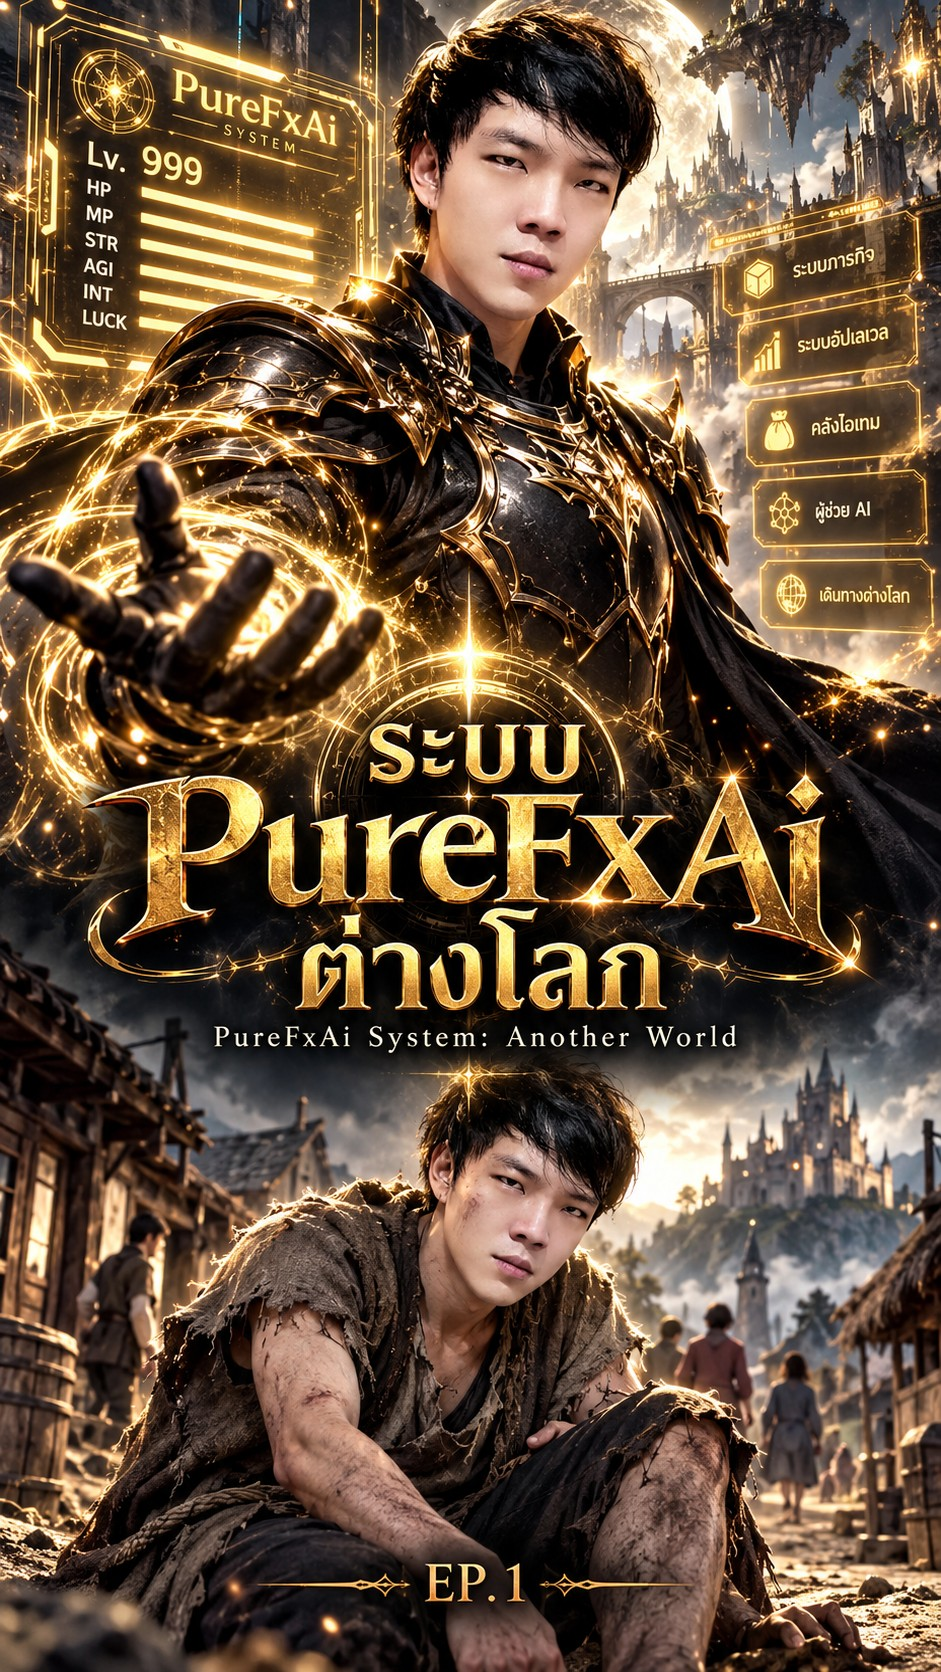
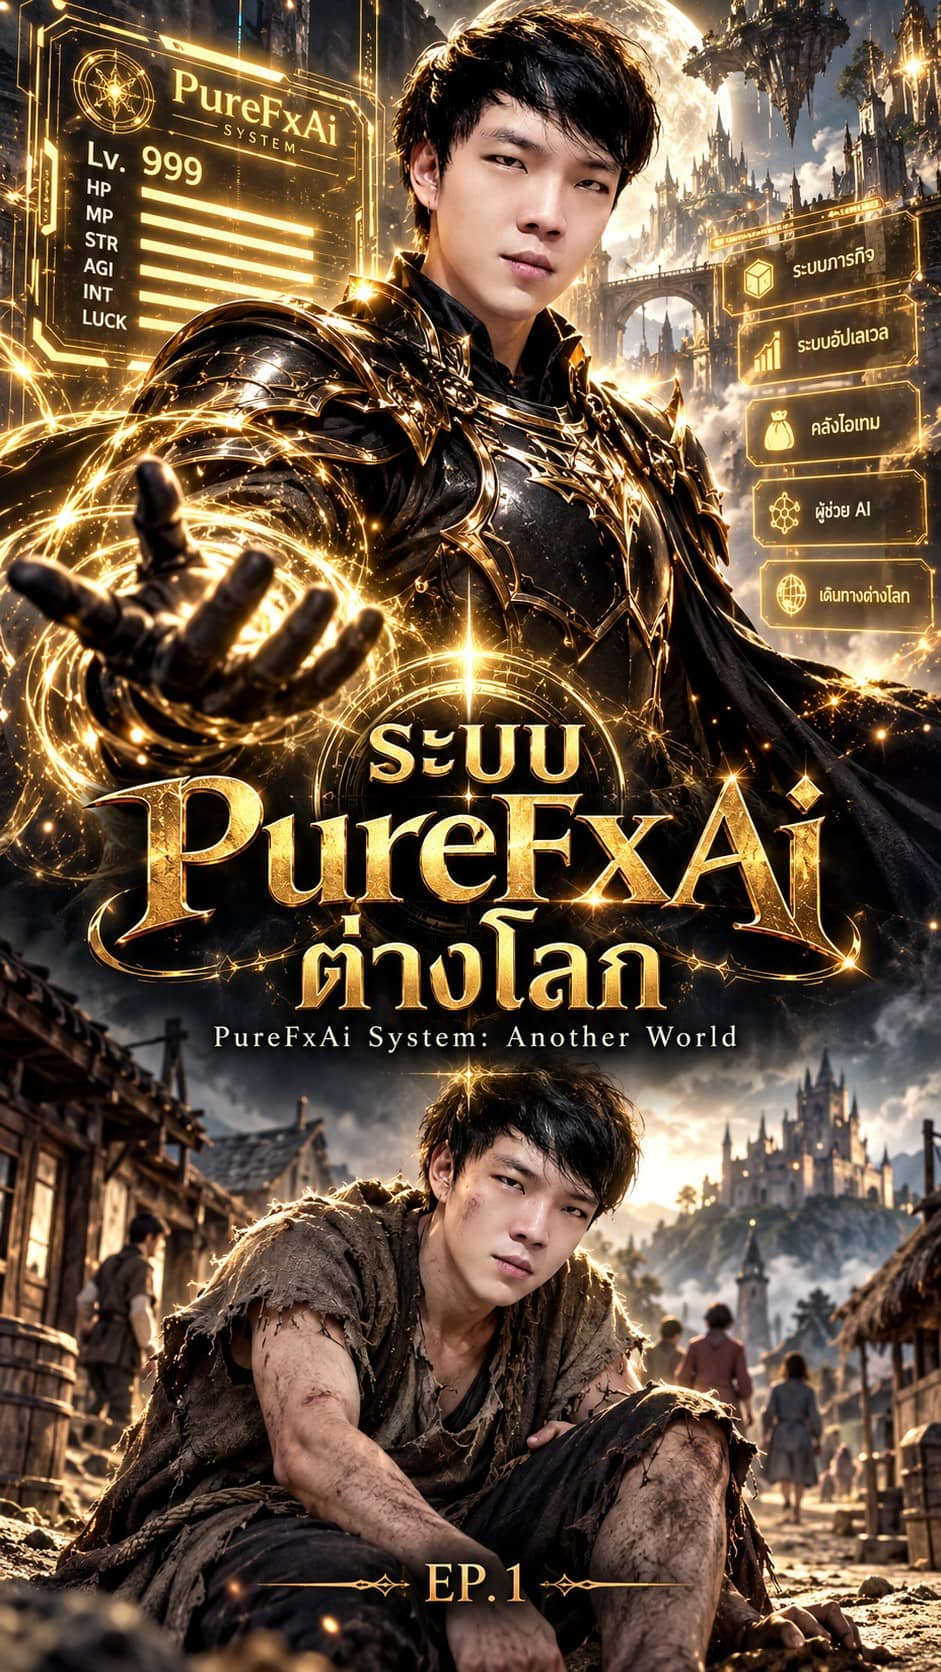
Add series posters and episode covers (optimized JPG/WebP), Thai title overlays

diff --git a/index.html b/index.html
@@ -112,6 +112,7 @@ html,body{overflow-x:hidden}@media(min-width:901px){.mo{display:none}.hero h1{wh
 .fd .rv,.fd.rv{opacity:1!important;transform:none!important}@media(max-width:699px){.fd-rail{bottom:170px}.fd-ov{padding-right:70px}
 .fd-ccw{position:absolute;top:66px;right:12px;z-index:3}.fd-ccw .pfx-cc{background:rgba(0,0,0,.35);border:0;color:#fff;width:44px;height:44px;border-radius:50%;display:flex;align-items:center;justify-content:center;cursor:pointer;backdrop-filter:blur(6px)}.fd-it{--pfx-sub-b:120px}}.fd-hint{position:absolute;bottom:-24px;left:0;right:0;text-align:center;font-size:.72rem;color:rgba(255,255,255,.45)}@media(max-width:699px){.fd-hint{display:none}}
 @media(max-width:699px){body.feedv #callBtn,body.feedv #chatBtn{opacity:0;pointer-events:none;transform:scale(.8)}}#callBtn,#chatBtn{transition:opacity .25s,transform .25s}
+.po .ttl{position:absolute;left:0;right:0;bottom:0;padding:28px 10px 10px;font:600 1rem/1.25 Kanit,sans-serif;font-style:normal;color:#fff;text-shadow:0 2px 8px rgba(0,0,0,.9);background:linear-gradient(transparent,rgba(0,0,0,.85))}
 </style><style>.vr-en{display:none}html[lang=en] .vr-en{display:inline}html[lang=en] .vr-th{display:none}
 .vrg{display:grid;grid-template-columns:repeat(auto-fill,minmax(170px,1fr));gap:14px;margin-top:22px}
 .vrc{position:relative;aspect-ratio:9/16;border-radius:14px;overflow:hidden;border:1px solid rgba(212,175,55,.45);background:#0b0b0b;cursor:pointer}
@@ -461,7 +462,7 @@ function rows(){if(!MAN)return;const av=ALL.filter(e=>e.clips.length),row=(id,ti
  row('rowNew',t('newE'),av.slice().sort((a,b)=>(b.date||'')>(a.date||'')?1:-1).slice(0,12).concat(ALL.filter(e=>!e.clips.length).slice(0,4)));
  const G=MAN.genres.slice().sort((a,b)=>a.order-b.order);serTabs.innerHTML=[{id:'all',th:'ทั้งหมด',en:'All'},...G].map(g=>`<a href="#cats" data-g="${g.id}" class="${fGenre==g.id?'on':''}">${g[L]}</a>`).join('');
  serTabs.querySelectorAll('a').forEach(a=>a.onclick=ev=>{ev.preventDefault();setGenre(a.dataset.g,false)});
- serGrid.innerHTML=MAN.series.filter(x=>fGenre=='all'||x.genre==fGenre).map(x=>{const f=ALL.find(e=>e.sid==x.id&&e.clips.length)||ALL.find(e=>e.sid==x.id),n=x.episodes.filter(e=>e.available).length;return `<a class="pc" href="#v/${f?f.id:''}" data-ep="${f?f.id:''}"><div class="po" style="background-image:url('${x.coverOk?x.cover:''}'),linear-gradient(160deg,#1d2230,#2a2410)"><span>${esc((G.find(g=>g.id==x.genre)||{})[L]||'')}</span>${n?'':`<span class="soon">${t('fsoon')}</span>`}</div><b>${esc(x[L])}</b><small>${n} / ${x.episodes.length} ${t('eps')}</small></a>`}).join('');
+ serGrid.innerHTML=MAN.series.filter(x=>fGenre=='all'||x.genre==fGenre).map(x=>{const f=ALL.find(e=>e.sid==x.id&&e.clips.length)||ALL.find(e=>e.sid==x.id),n=x.episodes.filter(e=>e.available).length;return `<a class="pc" href="#v/${f?f.id:''}" data-ep="${f?f.id:''}"><div class="po" style="background-image:url('${x.coverOk?x.cover:''}'),linear-gradient(160deg,#1d2230,#2a2410)"><span>${esc((G.find(g=>g.id==x.genre)||{})[L]||'')}</span>${n?'':`<span class="soon">${t('fsoon')}</span>`}<em class="ttl">${esc(x[L])}</em></div><b>${esc(x[L])}</b><small>${n} / ${x.episodes.length} ${t('eps')}</small></a>`}).join('');
  document.querySelectorAll('#series .pc').forEach(a=>a.onclick=ev=>{ev.preventDefault();const id=a.dataset.ep;if(!id)return;const tm=(a.getAttribute('href').split('/')[2])|0;openEp(id,tm)});
  const tl=Object.values(STATS.eps).reduce((a,b)=>a+(b.likes||0),0),tc=Object.values(STATS.eps).reduce((a,b)=>a+(b.comments||0),0);
  comStats.innerHTML=`<div><b>${tl}</b><span>${t('cLikes')}</span></div><div><b>${tc}</b><span>${t('cCm')}</span></div><div><b>${MAN.series.length}</b><span>${t('cSer')}</span></div><div><b>${av.length}</b><span>${t('cEp')}</span></div>`;

diff --git a/server/social.js b/server/social.js
@@ -8,7 +8,7 @@ let st;const save=()=>{clearTimeout(st);st=setTimeout(()=>{fs.writeFileSync(F+'.
 const id=()=>crypto.randomBytes(8).toString('hex'),now=()=>new Date().toISOString();
 const ORIGINS=['https://localhost','http://localhost','capacitor://localhost','http://localhost:5173','http://localhost:4173'];
 const SERIES=[{id:'isekai',cat:'isekai',th:'ระบบ PureFxAi ต่างโลก',en:'PureFxAi System: Another World',cover:'shorts/ep01/cover.jpg',eps:['ep01','ep02','ep03','ep04','ep05']},
- {id:'cartoon',cat:'cartoon',th:'การ์ตูน PureFxAi',en:'PureFxAi Toons',cover:'shorts/ep02/cover.jpg',eps:[]}];
+ {id:'cartoon',cat:'cartoon',th:'น้องบอทกับแก๊งตลาดน้ำ',en:'Botty & the Floating Market Gang',cover:'shorts/cartoon/cover.jpg',eps:[]}];
 const EPS={ep01:{th:'ไอ้ขี้แพ้กับหน้าต่างสีทอง',en:'The Loser and the Golden Window'},ep02:{th:'เมืองตลาดแห่งโชคชะตา',en:'The Market Town of Chance'},ep03:{th:'วินัยเหนือความโลภ',en:'Discipline over Desire'},ep04:{th:'ชายในผ้าคลุม',en:'The Hooded Figure'},ep05:{th:'ระดับเทพ',en:'God Tier'}};
 const CATS=[{id:'isekai',th:'ต่างโลก',en:'Isekai'},{id:'cartoon',th:'การ์ตูน',en:'Cartoon'}];
 const ROOT=path.join(__dirname,'..');
